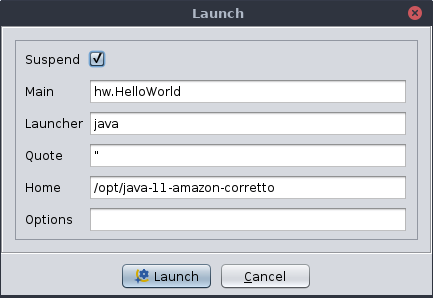
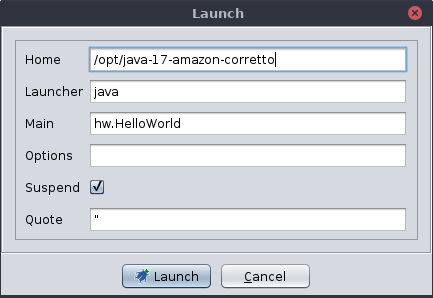
GP-2651: Update Debugger screenshots

diff --git a/Ghidra/Debug/Debugger/src/screen/java/ghidra/app/plugin/core/debug/gui/objects/DebuggerObjectsPluginScreenShots.java b/Ghidra/Debug/Debugger/src/screen/java/ghidra/app/plugin/core/debug/gui/objects/DebuggerObjectsPluginScreenShots.java
@@ -51,10 +51,13 @@ public class DebuggerObjectsPluginScreenShots extends GhidraScreenShotGenerator
 	static class ActionyTestTargetObject
 			extends DefaultTestTargetObject<TestTargetObject, TestTargetObject>
 			implements TargetInterpreter, TargetResumable, TargetSteppable, TargetLauncher,
-			TargetAttacher, TargetAttachable {
+			TargetAttacher, TargetAttachable, TargetThread, TargetExecutionStateful {
 
 		public ActionyTestTargetObject(TestTargetObject parent, String name, String typeHint) {
 			super(parent, name, typeHint);
+			setAttributes(Map.of(
+				TargetExecutionStateful.STATE_ATTRIBUTE_NAME, TargetExecutionState.STOPPED),
+				"Init");
 		}
 
 		@Override
@@ -94,7 +97,7 @@ public class DebuggerObjectsPluginScreenShots extends GhidraScreenShotGenerator
 	}
 
 	/**
-	 * NOTE: The icon selection looks like it relies of "duck typing", which is probably not the
+	 * NOTE: The icon selection looks like it relies on "duck typing", which is probably not the
 	 * Right Way. I would have expected it to consume the type hint. Eh. Anyway, let's take a
 	 * screenshot, shall we?
 	 * 
@@ -203,9 +206,9 @@ public class DebuggerObjectsPluginScreenShots extends GhidraScreenShotGenerator
 		waitForSwing();
 		mb.testModel.session.requestFocus(mb.testModel.session);
 		waitForSwing();
-		mb.testModel.session.requestFocus(thread1a34);
-		waitForSwing();
 		teEnvBlock.changeAttributes(List.of("BOGUS FOCUS"), List.of(), Map.of(), "Clean");
+		waitForSwing();
+		mb.testModel.session.requestFocus(thread1a34);
 		waitForSwing();
 
 		captureIsolatedProvider(objectsProvider, 600, 600);

diff --git a/Ghidra/Debug/Framework-Debugging/src/test/java/ghidra/dbg/model/TestMimickJavaLauncher.java b/Ghidra/Debug/Framework-Debugging/src/test/java/ghidra/dbg/model/TestMimickJavaLauncher.java
@@ -34,22 +34,22 @@ public class TestMimickJavaLauncher
 
 		setAttributes(
 			List.of(), Map.of(TargetMethod.PARAMETERS_ATTRIBUTE_NAME, TargetParameterMap.ofEntries(
+				Map.entry("Home",
+					ParameterDescription.create(String.class, "Home", false,
+						"/opt/java-17-amazon-corretto", "Home", "")),
+				Map.entry("Launcher",
+					ParameterDescription.create(String.class, "Launcher", false, "java", "Launcher",
+						"")),
+				Map.entry("Main",
+					ParameterDescription.create(String.class, "Main", false, "hw.HelloWorld",
+						"Main", "")),
+				Map.entry("Options",
+					ParameterDescription.create(String.class, "Options", false, "", "Options", "")),
 				Map.entry("Suspend",
 					ParameterDescription.create(Boolean.class, "Suspend", false, true, "Suspend",
 						"")),
 				Map.entry("Quote",
-					ParameterDescription.create(String.class, "Quote", false, "\"", "Quote", "")),
-				Map.entry("Launcher",
-					ParameterDescription.create(String.class, "Launcher", false, "java", "Launcher",
-						"")),
-				Map.entry("Options",
-					ParameterDescription.create(String.class, "Options", false, "", "Options", "")),
-				Map.entry("Main",
-					ParameterDescription.create(String.class, "Main", false, "hw.HelloWorld",
-						"Main", "")),
-				Map.entry("Home",
-					ParameterDescription.create(String.class, "Home", false,
-						"/opt/java-11-amazon-corretto", "Home", "")))),
+					ParameterDescription.create(String.class, "Quote", false, "\"", "Quote", "")))),
 			"Initialized");
 	}
 

diff --git a/Ghidra/Debug/Debugger/src/main/java/ghidra/app/plugin/core/debug/gui/watch/DebuggerWatchesProvider.java b/Ghidra/Debug/Debugger/src/main/java/ghidra/app/plugin/core/debug/gui/watch/DebuggerWatchesProvider.java
@@ -319,7 +319,12 @@ public class DebuggerWatchesProvider extends ComponentProviderAdapter
 	PcodeExecutor<WatchValue> asyncWatchExecutor; // name is reminder to use asynchronously
 	PcodeExecutor<byte[]> prevValueExecutor;
 	// TODO: We could do better, but the tests can't sync if we do multi-threaded evaluation
-	ExecutorService workQueue = Executors.newSingleThreadExecutor();
+	ExecutorService workQueue = Executors.newSingleThreadExecutor(new ThreadFactory() {
+		@Override
+		public Thread newThread(Runnable r) {
+			return new Thread(r, "Watch Evaluator");
+		}
+	});
 
 	@AutoServiceConsumed
 	private DebuggerListingService listingService; // For goto and selection

diff --git a/Ghidra/Debug/Debugger/src/main/java/ghidra/app/plugin/core/debug/gui/objects/components/ObjectNode.java b/Ghidra/Debug/Debugger/src/main/java/ghidra/app/plugin/core/debug/gui/objects/components/ObjectNode.java
@@ -164,8 +164,8 @@ public class ObjectNode extends GTreeSlowLoadingNode {  //extends GTreeNode
 			ObjectContainer rootContainer = provider.getRoot();
 			Map<String, Object> rootMap = rootContainer.getAttributeMap();
 			if (rootMap.containsKey(TargetEventScope.EVENT_OBJECT_ATTRIBUTE_NAME)) {
-				TargetThread targetProcess =
-					(TargetThread) rootMap.get(TargetEventScope.EVENT_OBJECT_ATTRIBUTE_NAME);
+				TargetObject targetProcess =
+					(TargetObject) rootMap.get(TargetEventScope.EVENT_OBJECT_ATTRIBUTE_NAME);
 				if (container.getTargetObject().equals(targetProcess)) {
 					return ICON_EVENT;
 				}

diff --git a/Ghidra/Debug/Framework-Debugging/src/main/java/ghidra/dbg/target/TargetMethod.java b/Ghidra/Debug/Framework-Debugging/src/main/java/ghidra/dbg/target/TargetMethod.java
@@ -198,7 +198,11 @@ public interface TargetMethod extends TargetObject {
 		@SafeVarargs
 		public static TargetParameterMap ofEntries(
 				Entry<String, ParameterDescription<?>>... entries) {
-			return new ImmutableTargetParameterMap(Map.ofEntries(entries));
+			Map<String, ParameterDescription<?>> ordered = new LinkedHashMap<>();
+			for (Entry<String, ParameterDescription<?>> ent: entries) {
+				ordered.put(ent.getKey(), ent.getValue());
+			}
+			return new ImmutableTargetParameterMap(ordered);
 		}
 	}
 

diff --git a/Ghidra/Debug/Debugger/src/screen/java/ghidra/app/plugin/core/debug/gui/pcode/DebuggerPcodeStepperPluginScreenShots.java b/Ghidra/Debug/Debugger/src/screen/java/ghidra/app/plugin/core/debug/gui/pcode/DebuggerPcodeStepperPluginScreenShots.java
@@ -80,8 +80,9 @@ public class DebuggerPcodeStepperPluginScreenShots extends GhidraScreenShotGener
 			traceManager.openTrace(tb.trace);
 			traceManager.activateThread(thread);
 			traceManager.activateTime(TraceSchedule.parse("0:.t0-7"));
+			waitForSwing();
 
-			pcodeProvider.mainPanel.setDividerLocation(0.4);
+			runSwing(() -> pcodeProvider.mainPanel.setDividerLocation(360));
 			captureIsolatedProvider(pcodeProvider, 900, 300);
 		}
 	}

diff --git a/Ghidra/Debug/Debugger/src/main/java/ghidra/app/plugin/core/debug/service/emulation/data/DefaultPcodeDebuggerMemoryAccess.java b/Ghidra/Debug/Debugger/src/main/java/ghidra/app/plugin/core/debug/service/emulation/data/DefaultPcodeDebuggerMemoryAccess.java
@@ -109,6 +109,9 @@ public class DefaultPcodeDebuggerMemoryAccess extends DefaultPcodeTraceMemoryAcc
 		// TODO: Expand to block? DON'T OVERWRITE KNOWN!
 		DebuggerStaticMappingService mappingService =
 			tool.getService(DebuggerStaticMappingService.class);
+		if (mappingService == null) {
+			return false;
+		}
 		byte[] data = new byte[4096];
 
 		Trace trace = platform.getTrace();

diff --git a/Ghidra/Debug/Debugger/src/screen/java/ghidra/app/plugin/core/debug/gui/watch/DebuggerWatchesPluginScreenShots.java b/Ghidra/Debug/Debugger/src/screen/java/ghidra/app/plugin/core/debug/gui/watch/DebuggerWatchesPluginScreenShots.java
@@ -96,6 +96,8 @@ public class DebuggerWatchesPluginScreenShots extends GhidraScreenShotGenerator 
 		waitForSwing();
 		traceManager.activateSnap(snap1);
 		waitForSwing();
+		watchesProvider.waitEvaluate(1000);
+		waitForSwing();
 
 		captureIsolatedProvider(watchesProvider, 800, 400);
 	}

diff --git a/Ghidra/Debug/Debugger/src/main/java/ghidra/app/plugin/core/debug/gui/objects/components/GenericDebuggerProgramLaunchOffer.java b/Ghidra/Debug/Debugger/src/main/java/ghidra/app/plugin/core/debug/gui/objects/components/GenericDebuggerProgramLaunchOffer.java
@@ -38,6 +38,11 @@ public class GenericDebuggerProgramLaunchOffer extends AbstractDebuggerProgramLa
 	}
 
 	@Override
+	public String getButtonTitle() {
+		return "Launch";
+	}
+
+	@Override
 	public String getMenuTitle() {
 		return model.getBrief();
 	}
